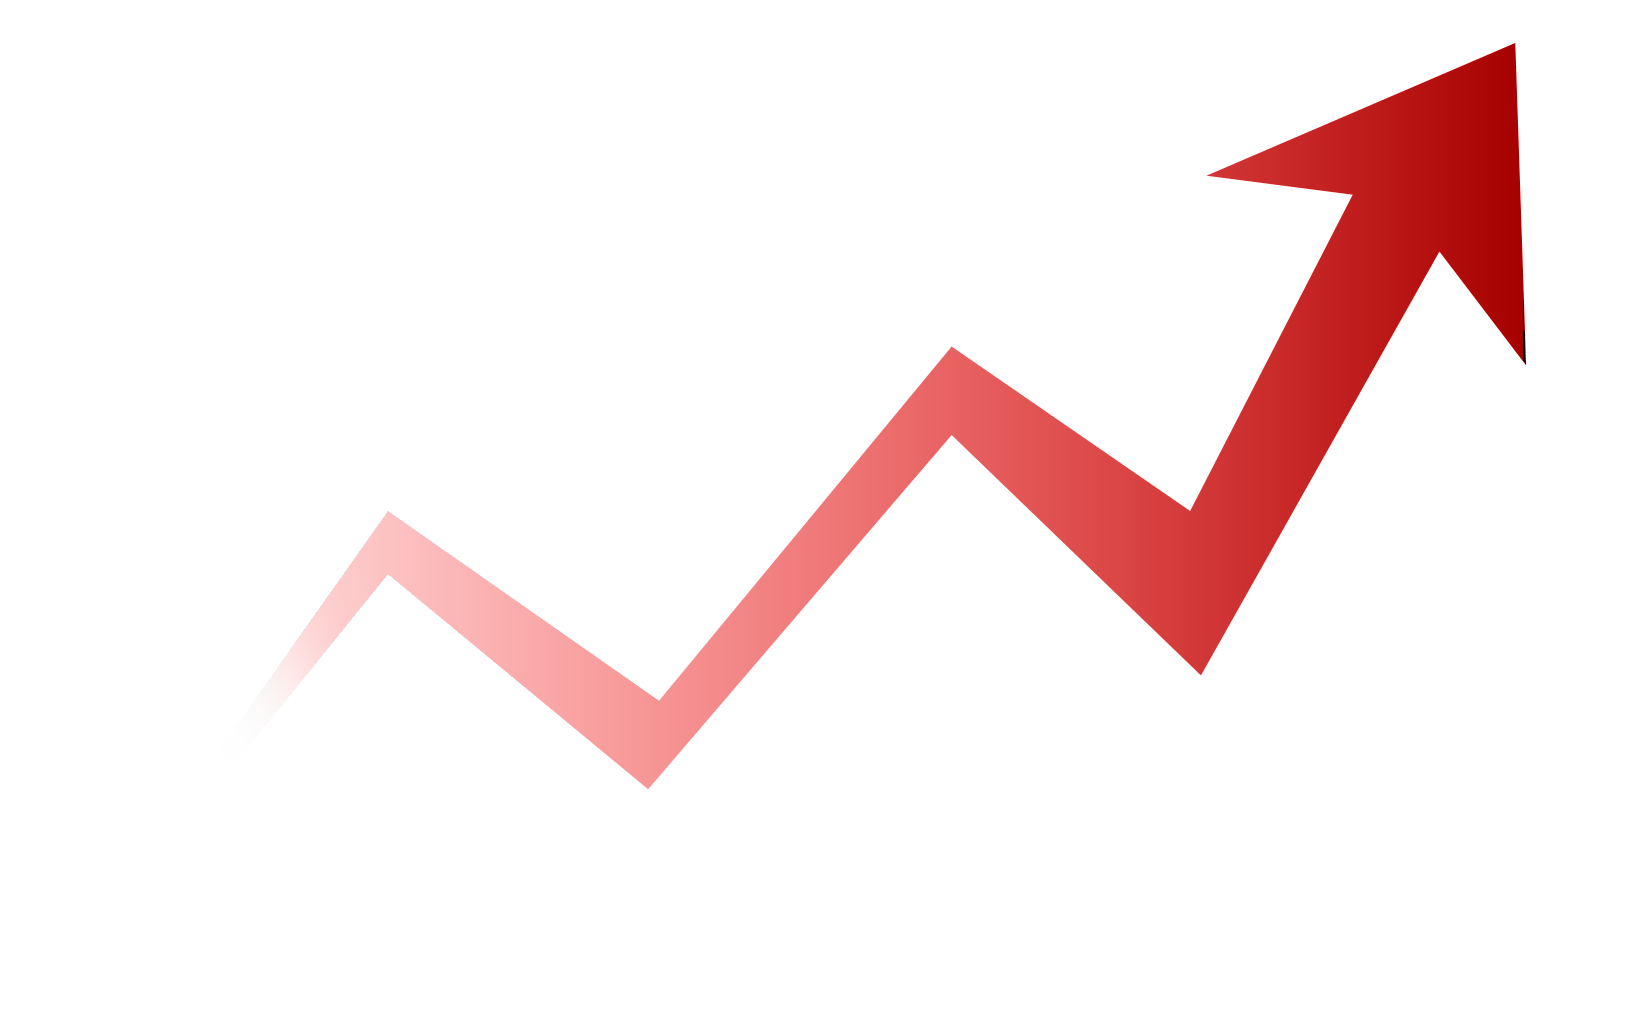
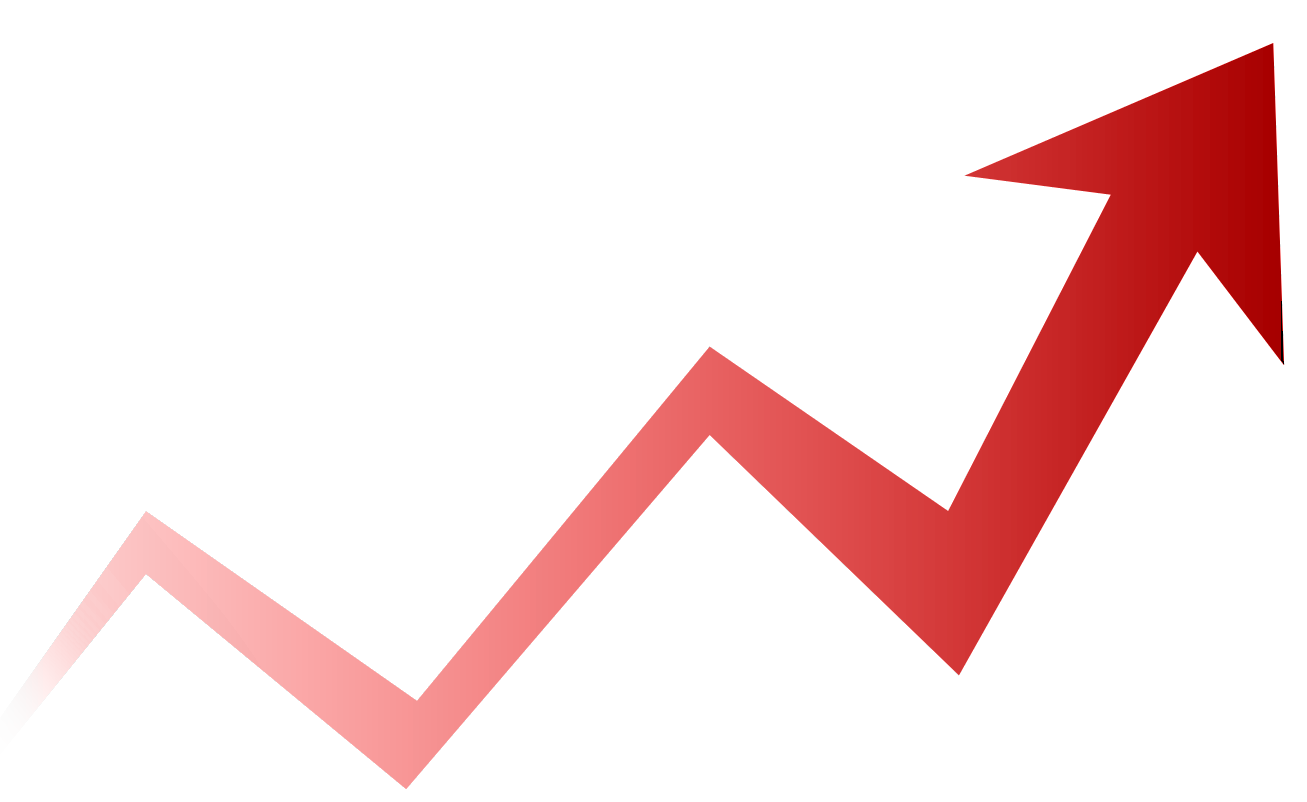
added style for tablet

Changed region(s): [[0.0306, 0.0312, 1.0, 0.9975]]

diff --git a/src/Components/Demography/Styles/DemographySelect.module.css b/src/Components/Demography/Styles/DemographySelect.module.css
@@ -75,15 +75,15 @@
 @media (min-width: 992px) {
 	.wrapper {
 		min-height: 12vh;
-		align-items: flex-end;
+		align-items: flex-start;
 	}
 
 	.box_img {
-		bottom: -65%;
-		left: -8%;
+		bottom: -12%;
+		right: 2%;
 		display: block;
-		width: 45%;
-		transform: rotate(5deg);
+		width: 32%;
+		transform: rotate(3deg);
 	}
 
 	.img {
